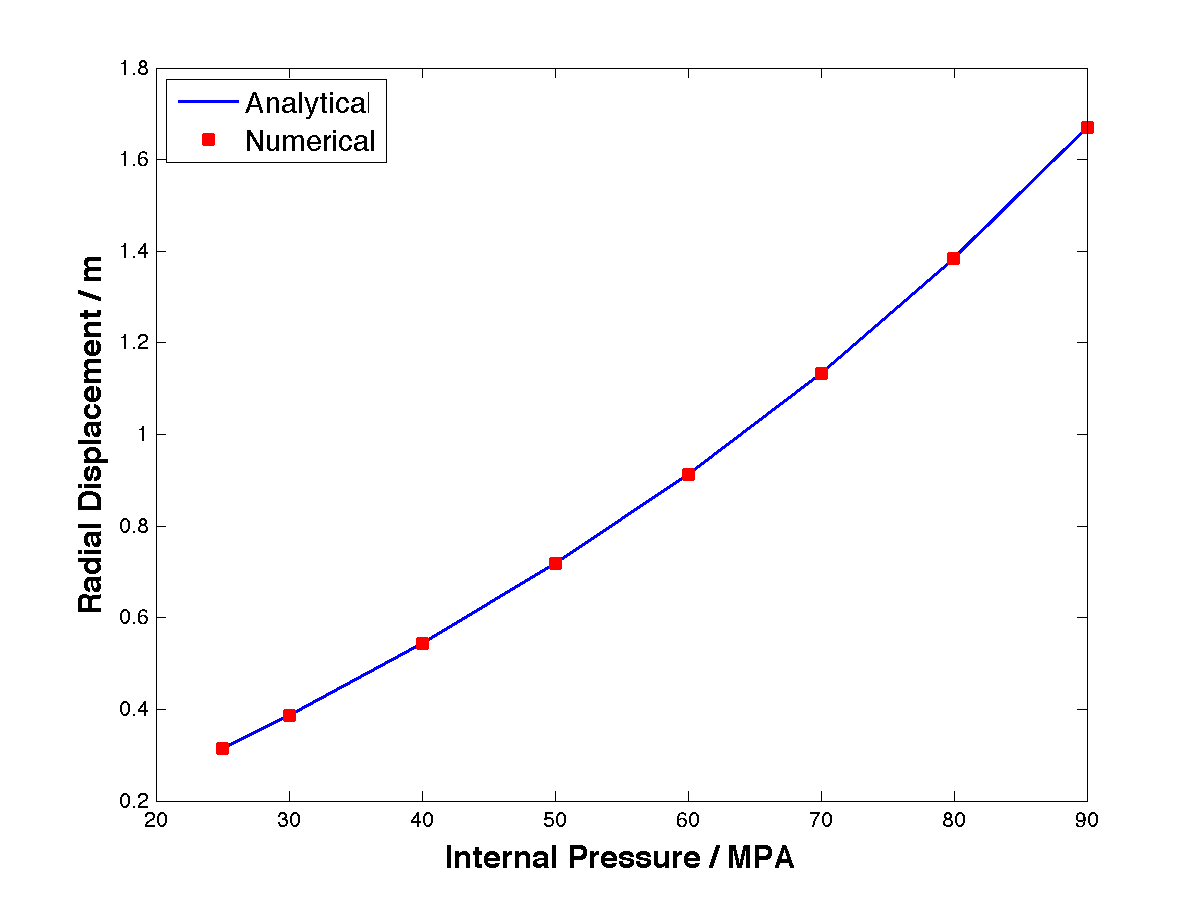
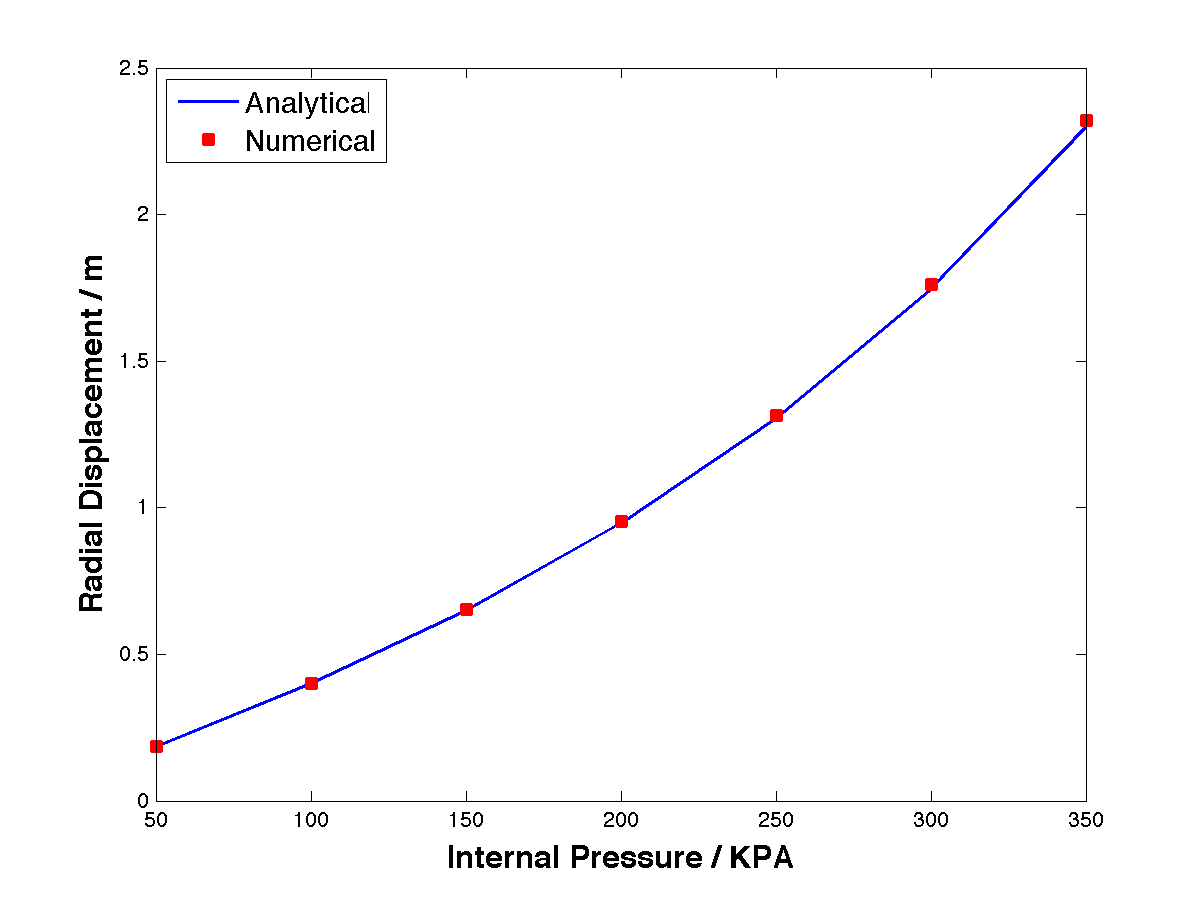
data updated

diff --git a/paper/texFiles/section4.tex b/paper/texFiles/section4.tex
@@ -68,7 +68,9 @@ $\lambda_y$ is greater than $\lambda_x$ when $0^\circ < \alpha < 45^\circ$ since
 
 \subsection{Cylindrical Pressure Vessel}
 \label{pressure_vessel}
-As a typical application, we consider a vessel under lumen pressure. The vessel has an internal radius of $R_i = 7$ m and an external radius of $R_o = 18.625$ m. Only a quarter of vessel is considered with plain strain assumption as shown in Figure \ref{fig:vessel_schematic}. $21$ nodes are uniformly distributed in radial direction. As the first case, we model the vessel with Mooney-Rivlin model. The material parameters used are $\mu_1 = 160$ MPa and $\mu_2 = 40$ MPa. $\kappa$ is set to $1 \times 10^7$ MPa to make the material nearly incompressible. We compare the radial displacement, hoop stress, radial stress, and axial stress with the analytical solutions of incompressible Mooney-Rivlin model under an internal pressure of $p_i = 50$ MPa. The analytical solutions are found in [] as follows 
+We consider a vessel under lumen pressure which is a typical application as the second experiment. The vessel has an internal radius of $R_i = 7$ m and an external radius of $R_o = 18.625$ m. Only a quarter of vessel is considered with plain strain assumption as shown in Figure \ref{fig:vessel_schematic}. $21$ nodes are uniformly distributed in radial direction. The material parameters we used is the same as in Section \ref{biaxial_tension_test} except that in the HGO model, two families of fibers are arranged in the $\theta-z$ plane with constant angles to the circumferential direction of $\pm 50^\circ$. 
+
+As a benchmark, we model the vessel with Mooney-Rivlin model and compare the radial displacement, hoop stress, radial stress, and axial stress with the analytical solutions. The analytical solutions for incompressible material are found in \cite{Green} as follows: 
 \begin{subequations}
 \begin{align}
 p_i &= 2(\mu_1 + \mu_2)(log\frac{{R_i}^2 + b}{{R_o}^2 + b} - 2log\frac{R_i}{R_o} +
@@ -89,33 +91,33 @@ where $R$ and $r$ are the radial coordinate before and after deformation, $p$ is
 \label{fig:vessel_schematic}
 \end{figure}
 
-Fig \ref{fig:mooney-rivlin1} shows the stress components and the radial displacement along radius direction. Good agreement is achieved on all the components. Notice the axial stress is usually hard to predict but our result is satisfactory. Furthermore, we pick the node at the midpoint in the radial direction ($R = 12.8125$ m) and study its deformation under different internal pressures. As shown in Fig \ref{fig:mooney-rivlin2}, the computational result and analytical solution agree perfectly with each other. 
+Fig \ref{fig:mooney-rivlin1} shows the stress components and the radial displacement along radius direction under the pressure of $p_i = 200$ KPa. Good agreement is achieved on all the components. Notice the axial stress is usually hard to predict but our result is satisfactory. Furthermore, we pick the node at the midpoint in the radial direction ($R = 12.8125$ m) and study its deformation under different internal pressures. As shown in Fig \ref{fig:mooney-rivlin2}, the computational result and analytical solution agree perfectly with each other. 
 
 \begin{figure}[t!p]
 	\begin{subfigure}[b]{0.5\textwidth}
 		\centering
-		\includegraphics[width=\textwidth]{./figures/ur_50.png}
+		\includegraphics[width=\textwidth]{./figures/ur_200.png}
 		\caption{Radial Displacement}
-		\label{ur_50}
+		\label{ur_200}
 	\end{subfigure}
 	\begin{subfigure}[b]{0.5\textwidth}
 		\centering
-		\includegraphics[width=\textwidth]{./figures/hoop_stress_50.png}
+		\includegraphics[width=\textwidth]{./figures/hoop_stress_200.png}
 		\caption{Hoop Stress}
-		\label{hoop_50}
+		\label{hoop_200}
 	\end{subfigure}
 	
 	\begin{subfigure}[b]{0.5\textwidth}
 		\centering
-		\includegraphics[width=\textwidth]{./figures/radial_stress_50.png}
+		\includegraphics[width=\textwidth]{./figures/radial_stress_200.png}
 		\caption{Radial Stress}
-		\label{radial_50}
+		\label{radial_200}
 	\end{subfigure}
 	\begin{subfigure}[b]{0.5\textwidth}
 		\centering
-		\includegraphics[width=\textwidth]{./figures/axial_stress_50.png}
+		\includegraphics[width=\textwidth]{./figures/axial_stress_200.png}
 		\caption{Axial Stress}
-		\label{axial_50}
+		\label{axial_200}
 	\end{subfigure}
 	\caption{Vessel Expansion Under $p_i = 50$ MPa with Mooney-Rivlin Model}
 	\label{fig:mooney-rivlin1}
@@ -151,69 +153,40 @@ Fig \ref{fig:mooney-rivlin1} shows the stress components and the radial displace
 	\label{fig:mooney-rivlin2}
 \end{figure}
 
-Next we use Neo-Hookean and Yeoh model to characterize the same material and repeat the vessel expansion test. The material constants are the same as in Section \ref{biaxial_tension_test}. Figure \ref{hoop_nh_yeoh} shows the results of these two models under an inner pressure of $p_i = 350$ KPa. The displacements have similar trends but different values. It is surprising that hoop stress and radial stress predicted by two models are close. The major difference is the axial stress where Yeoh model predicts a larger range.
+Now that the validity of our computation is confirmed. We then compare the results of Neo-Hookean, Mooney-Rivlin, Yeoh and HGO model. Figure \ref{fig:models} shows the results of these models under an inner pressure of $p_i = 350$ KPa. 
 
 \begin{figure}[t!p]
 	\begin{subfigure}[b]{0.5\textwidth}
 		\centering
-		\includegraphics[width=\textwidth]{./figures/ur_nh_yeoh.png}
+		\includegraphics[width=\textwidth]{./figures/ur_models.png}
 		\caption{Radial Displacement}
-		\label{ur_nh_yeoh}
+		\label{ur_models}
 	\end{subfigure}
 	\begin{subfigure}[b]{0.5\textwidth}
 		\centering
-		\includegraphics[width=\textwidth]{./figures/hoop_nh_yeoh.png}
+		\includegraphics[width=\textwidth]{./figures/hoop_models.png}
 		\caption{Hoop Stress}
-		\label{hoop_nh_yeoh}
+		\label{hoop_models}
 	\end{subfigure}
 	
 	\begin{subfigure}[b]{0.5\textwidth}
 		\centering
-		\includegraphics[width=\textwidth]{./figures/radial_nh_yeoh.png}
+		\includegraphics[width=\textwidth]{./figures/radial_models.png}
 		\caption{Radial Stress}
-		\label{radial_nh_yeoh}
+		\label{radial_models}
 	\end{subfigure}
 	\begin{subfigure}[b]{0.5\textwidth}
 		\centering
-		\includegraphics[width=\textwidth]{./figures/axial_nh_yeoh.png}
+		\includegraphics[width=\textwidth]{./figures/axial_models.png}
 		\caption{Axial Stress}
-		\label{axial_nh_yeoh}
+		\label{axial_models}
 	\end{subfigure}
-	\caption{Vessel Expansion with Neo-Hookean and Yeoh Model under $350$ KPa}
-	\label{fig:nh_yeoh}
+	\caption{Vessel Expansion with Different Models under $350$ KPa}
+	\label{fig:models}
 \end{figure}
 
-As the last test case we compare HGO model to Neo-Hookean model. The parameters used in the HGO model is still the same as in Section \ref{biaxial_tension_test}, the geometry and mesh are the same as in previous cases. The pressure is $1.5$ KPa. To demonstrate the effect of the anisotropic part of the HGO model, we use the same $\mu_1$ and $\kappa$ in the Neo-Hookean model. This time, the two families of fibers are arranged in the $\theta-z$ plane with constant angles to the circumferential direction of $\pm 50^\circ$. From Figure \ref{fig:nh_hgo} we can see that overall the vessel is significantly strengthened as the radial displacement is much smaller. While the radial stress does not change much (similar to Yeoh model), the hoop stress is smaller but has a similar trend. However the axial stress changes dramatically. In Neo-Hookean model the inner surface has the maximum axial stress while in HGO model the outer surface has the maximum axial stress. But overall both hoop stress and axial stress are much smaller in the HGO model.
+%As the last test case we compare HGO model to Neo-Hookean model. The parameters used in the HGO model is still the same as in Section \ref{biaxial_tension_test}, the geometry and mesh are the same as in previous cases. The pressure is $1.5$ KPa. To demonstrate the effect of the anisotropic part of the HGO model, we use the same $\mu_1$ and $\kappa$ in the Neo-Hookean model. This time, the two families of fibers are arranged in the $\theta-z$ plane with constant angles to the circumferential direction of $\pm 50^\circ$. From Figure \ref{fig:nh_hgo} we can see that overall the vessel is significantly strengthened as the radial displacement is much smaller. While the radial stress does not change much (similar to Yeoh model), the hoop stress is smaller but has a similar trend. However the axial stress changes dramatically. In Neo-Hookean model the inner surface has the maximum axial stress while in HGO model the outer surface has the maximum axial stress. But overall both hoop stress and axial stress are much smaller in the HGO model.
 
-\begin{figure}[t!p]
-	\begin{subfigure}[b]{0.5\textwidth}
-		\centering
-		\includegraphics[width=\textwidth]{./figures/ur_nh_hgo.png}
-		\caption{Radial Displacement}
-		\label{ur_nh_hgo}
-	\end{subfigure}
-	\begin{subfigure}[b]{0.5\textwidth}
-		\centering
-		\includegraphics[width=\textwidth]{./figures/hoop_nh_hgo.png}
-		\caption{Hoop Stress}
-		\label{hoop_nh_hgo}
-	\end{subfigure}
-	
-	\begin{subfigure}[b]{0.5\textwidth}
-		\centering
-		\includegraphics[width=\textwidth]{./figures/radial_nh_hgo.png}
-		\caption{Radial Stress}
-		\label{radial_nh_hgo}
-	\end{subfigure}
-	\begin{subfigure}[b]{0.5\textwidth}
-		\centering
-		\includegraphics[width=\textwidth]{./figures/axial_nh_hgo.png}
-		\caption{Axial Stress}
-		\label{axial_nh_hgo}
-	\end{subfigure}
-	\caption{Vessel Expansion with Neo-Hookean and HGO Model under $1.5$ KPa}
-	\label{fig:nh_hgo}
-\end{figure}
 
 
 
